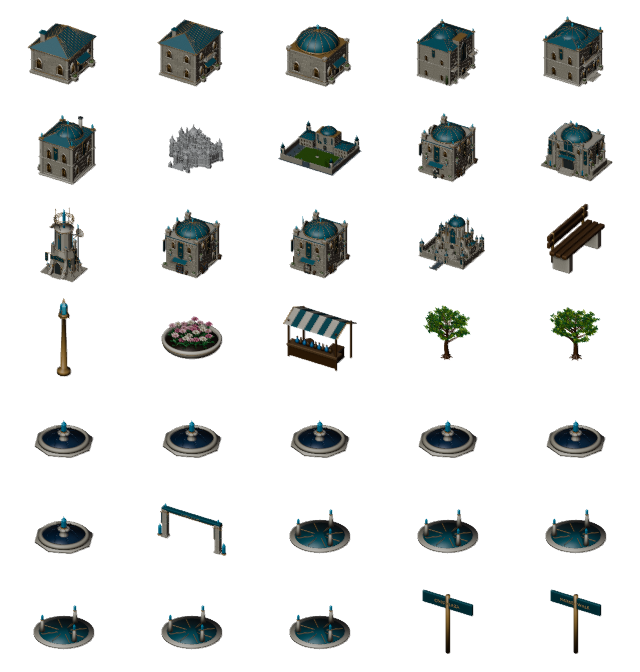
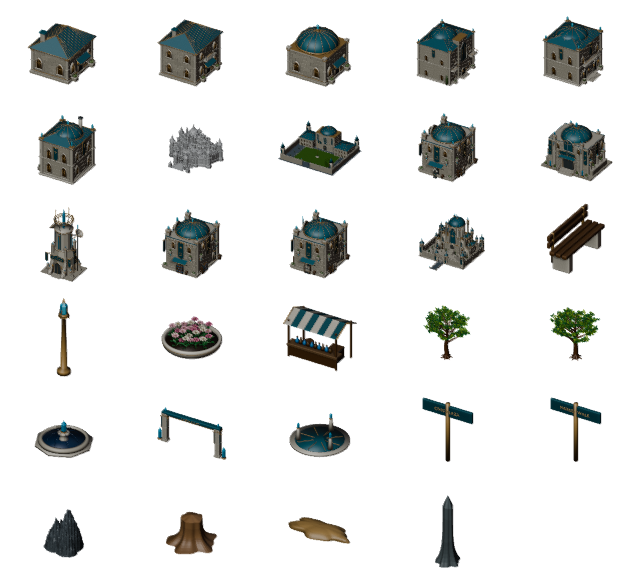
Sin and Codex: Add saved map demo choices and cursor-targeted orbit zoom
Give each map thumbnail a saved Demo toggle, enable only the four approved maps
by default, and visit included maps for 30 seconds. Starting from an excluded map
selects an eligible map; empty and single-map selections avoid unnecessary loads.

Pick the mouse's world point for eased zoom while preserving active or paused
orbit. Clear cursor anchoring on overview/top-view resets. Move the toolbar right
with Edit Town last and measure the bottom-left statistics panel to fit its data.

Relocate residents away from Arin's spawn and exclude autonomous errands crossing
that entrance. Consolidate shared fountain thumbnails and render the missing
landform previews. Preserve the user's relaunch reporting and tasks shorthand.

Recognize prior repository-staged Studio executables during graceful relaunch.
Keep a plain dense-map regression fixture independent of evolving authored maps;
report native fixture exit codes for empty output. Repair inspection test teardown
for the legacy factory scene and record the direction-keyword diagnostic gap.

Validation: native town foundations/routes/rendering/session, legacy real-asset
scene/calibration checks, launcher preservation, source formatting and 359-asset
publication pass. Gracefully launched the staged build; live mouse/visual checks
remain pending. Generated map refinements and spacecraft work remain separate.

diff --git a/SourceAssets/Towns/Neris/NerisTownV1/Source/catalog_native.py b/SourceAssets/Towns/Neris/NerisTownV1/Source/catalog_native.py
@@ -24,6 +24,17 @@ PALETTE_LABELS = {'group:Wayfinding Post': 'Civic Plaza Sign',
                   'group:Wayfinding Post.002': 'Market Walk Sign'}
 
 
+def palette_slots(catalog):
+    """Stable template IDs share compact preview slots for repeated placements."""
+    slots, result = {}, []
+    for template in catalog['templates']:
+        source = template['source']
+        if source in PALETTE_COPIES:
+            source = source.rsplit('.', 1)[0]
+        result.append(slots.setdefault(source, len(slots)))
+    return result
+
+
 def number(value):
     return f'{value:.6f}'
 
@@ -62,13 +73,14 @@ def generate(catalog):
               f'Public Const TEMPLATE_COUNT = {len(catalog["templates"])}',
               f'Public Const INITIAL_ITEMS = {len(catalog["instances"])}', '',
               'Public Type Template', '    Label As Text', '    Category As Number',
-              '    PaletteVisible As Boolean',
+              '    PaletteVisible As Boolean', '    PreviewIndex As Number',
               '    Low As P.Vector3', '    High As P.Vector3',
               '    PartCount As Number', '    Parts[32] As Number',
               '    SolidCount As Number', '    CameraCount As Number', '    StepCount As Number',
               '    FloorCount As Number', '    DoorCount As Number', '    WaterCount As Number', 'End Type', '',
               'Public Function TemplateAt(Index As Number) As Template', '',
               '    Dim Result As Template', '', '    Select Case Index']
+    previews = palette_slots(catalog)
     for template in catalog['templates']:
         parts = [m*16+p for m, p in template['parts']]
         if template.get('existingCastle'):
@@ -81,6 +93,7 @@ def generate(catalog):
                   f'            Result.Label = {quoted(PALETTE_LABELS.get(template["source"], template["label"]))}',
                   f'            Result.Category = {category}',
                   f'            Result.PaletteVisible = {template["source"] not in PALETTE_COPIES}',
+                  f'            Result.PreviewIndex = {previews[template["id"]]}',
                   f'            Result.Low = {vector((low[0]*10,low[2]*10,low[1]*10))}',
                   f'            Result.High = {vector((high[0]*10,high[2]*10,high[1]*10))}',
                   f'            Result.PartCount = {len(parts)}',
